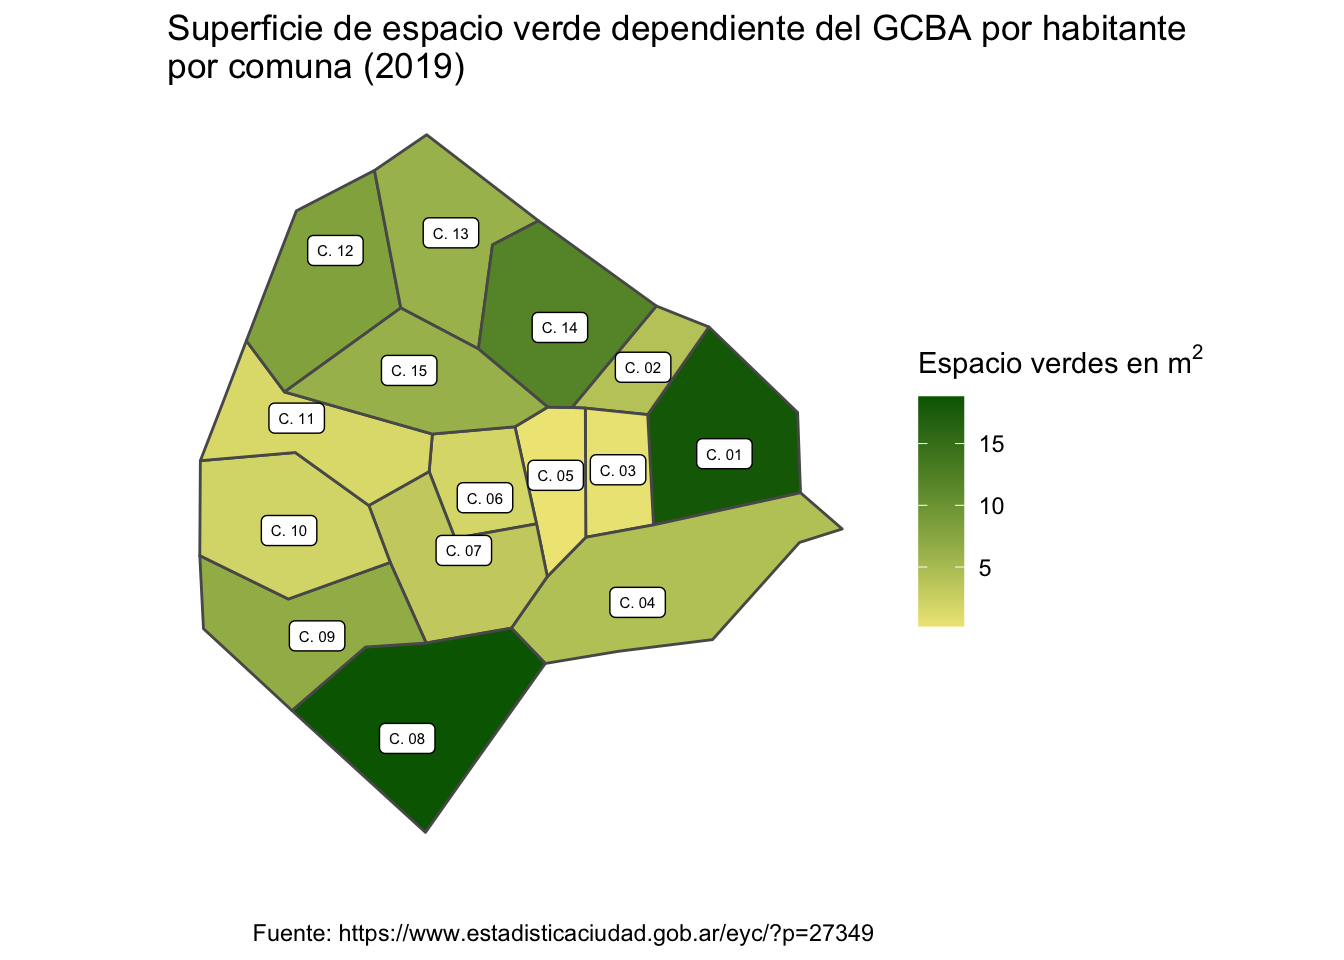
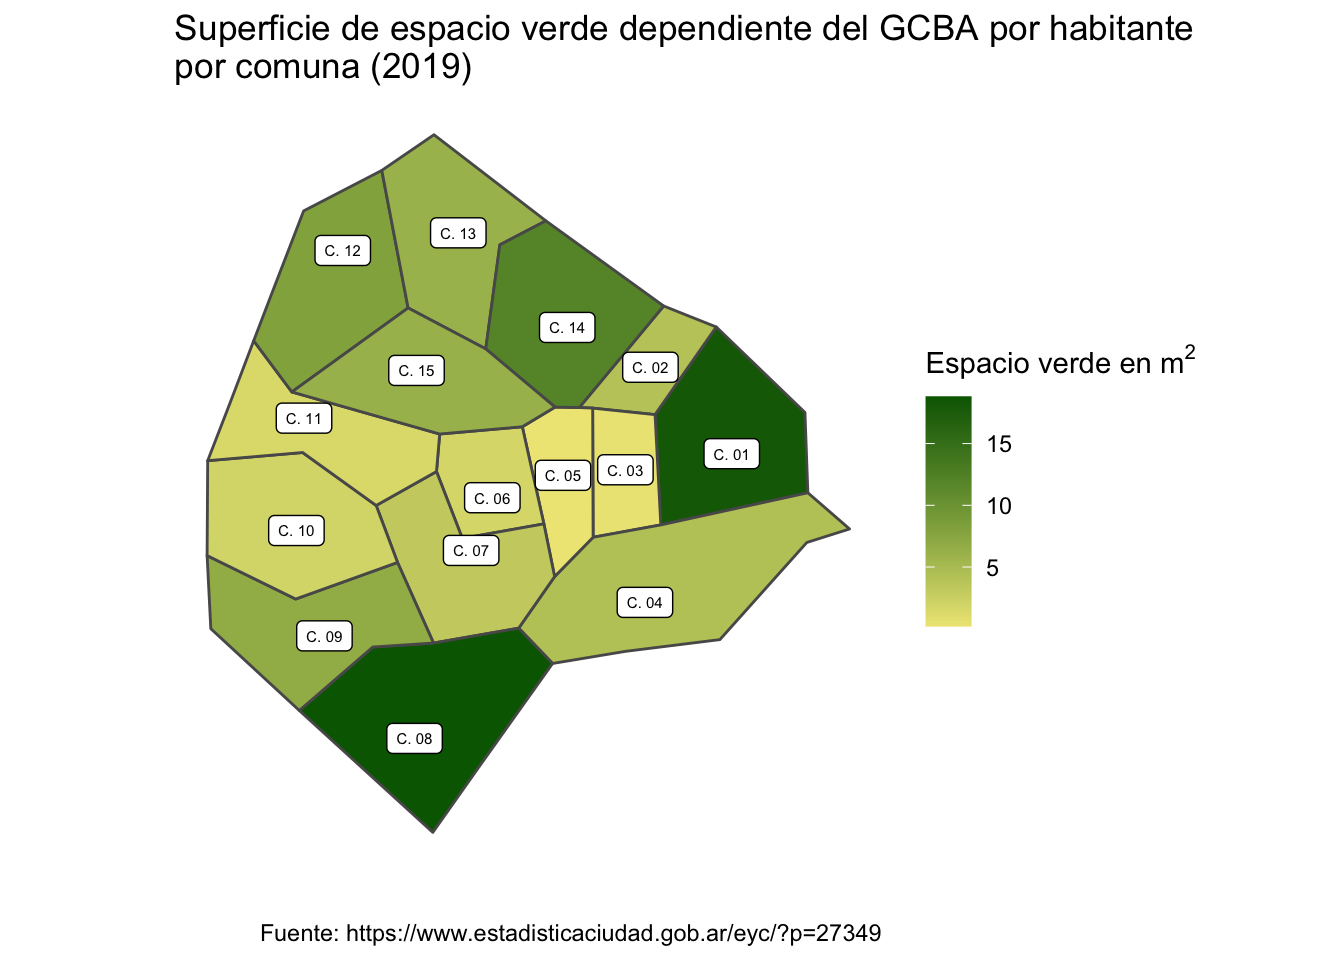
check spelling in legend title

diff --git a/content/es/post/2021-09-04-primer-acercamiento-a-los-datos-espaciales-mapa-coroplético-sobre-espacios-verdes-en-caba/index.html b/content/es/post/2021-09-04-primer-acercamiento-a-los-datos-espaciales-mapa-coroplético-sobre-espacios-verdes-en-caba/index.html
@@ -141,7 +141,7 @@ ggplot(CABA_names)+
        caption = &quot;Fuente: https://www.estadisticaciudad.gob.ar/eyc/?p=27349&quot;,
        x = &quot;&quot;, 
        y = &quot;&quot;,
-       fill = expression(&#39;Espacio verdes en m&#39; ^ 2))+
+       fill = expression(&#39;Espacio verde en m&#39; ^ 2))+
   theme(axis.text = element_blank(),
         axis.ticks = element_blank(),
         panel.background = element_blank()
